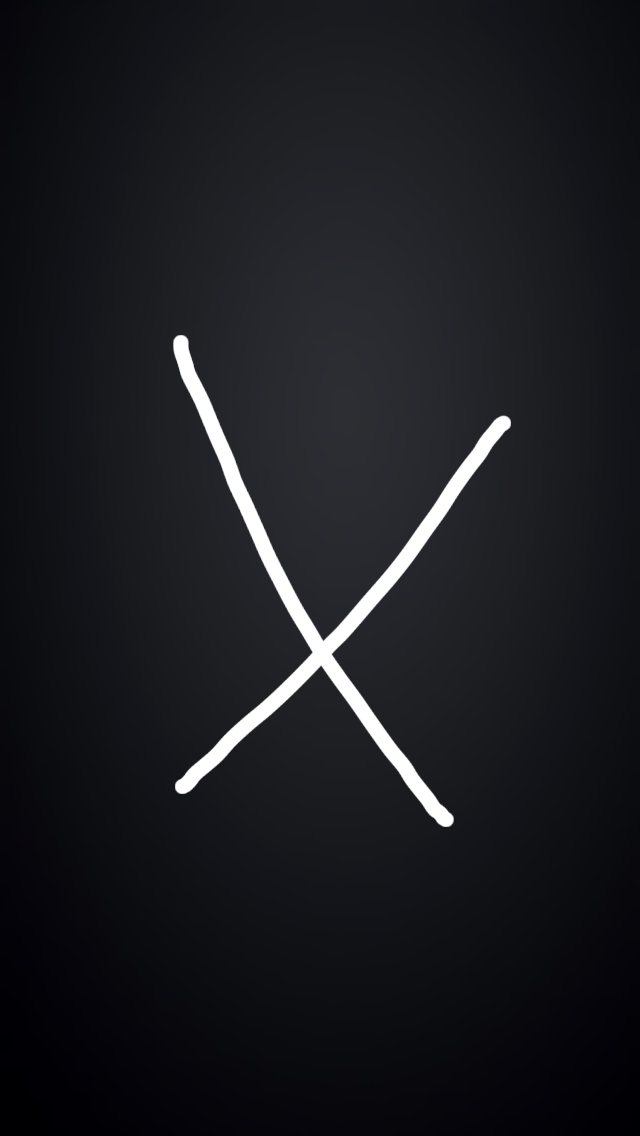
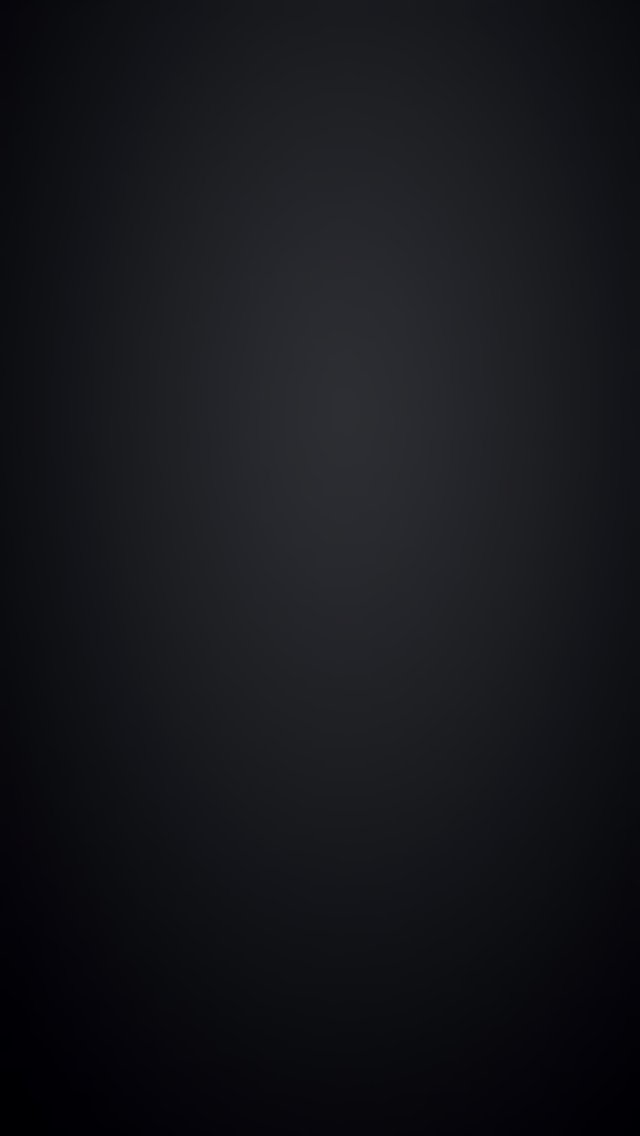
adfs

Changed region(s): [[0.25, 0.2773, 0.8125, 0.7394]]

diff --git a/frontend/src/Room.jsx b/frontend/src/Room.jsx
@@ -1024,6 +1024,7 @@ return (
     height: "100%",
     position: "absolute",
     inset: 0,
+    background: "#4B4B4B", // cinza base
   }}
 >
   <img
@@ -1033,6 +1034,9 @@ return (
       width: "100%",
       height: "100%",
       objectFit: "cover",
+
+      opacity: 0.28,          // controla quanto da textura aparece
+      mixBlendMode: "overlay", // mistura a textura com o cinza
     }}
   />
 